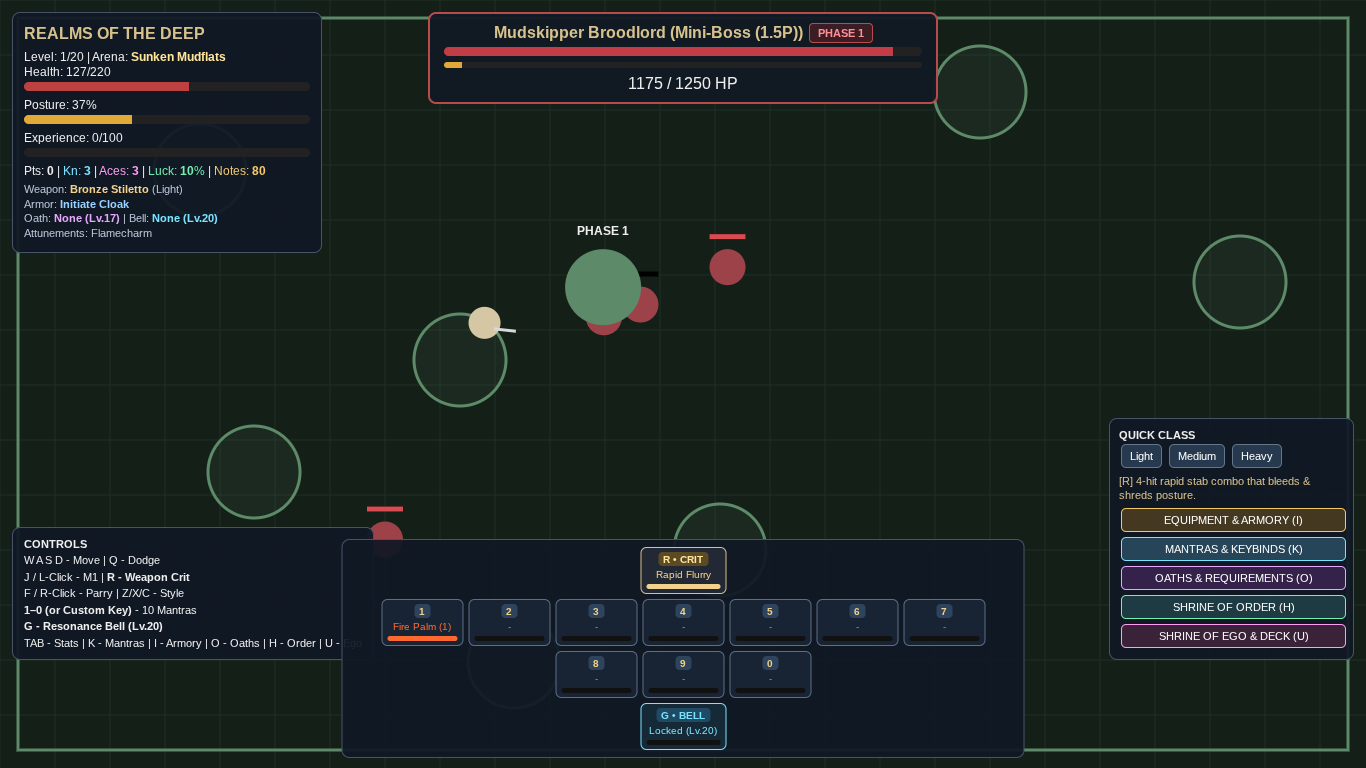
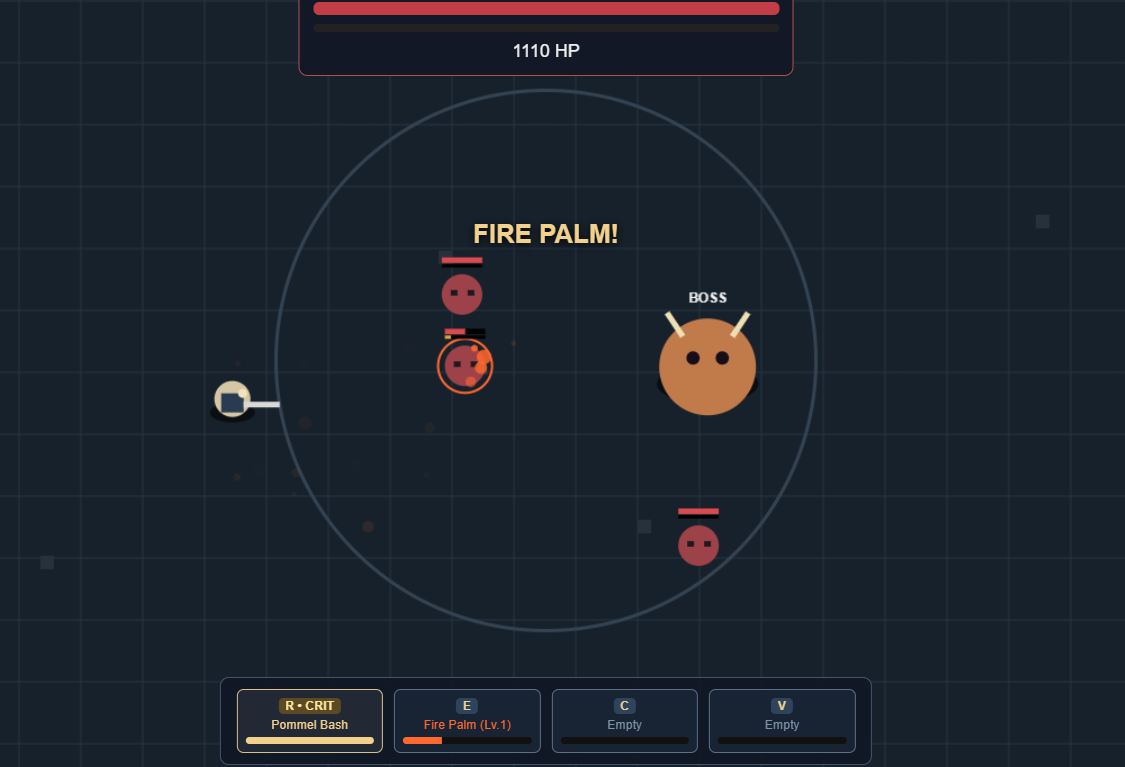
changes

diff --git a/index.html b/index.html
@@ -905,12 +905,12 @@
     <main id="hub" class="hub">
       <header class="header">
         <div class="identity">
-          <img
+          <!-- <img
             class="brand-logo"
             src="screenshots/frontier-logo.png"
             alt="Frontier Schools logo"
             id="schoolLogo"
-          />
+          /> -->
           <div class="school-identity">
             <div class="festival">STEM <em>Fest</em></div>
             <div class="school">Frontier Schools Kansas City</div>
@@ -918,7 +918,7 @@
         </div>
         <div
           class="headline"
-          aria-label="All Games Created by Students Using the Knowledge and Skills Gained at Frontier Schools."
+          aria-label="All Games Created by Our Students Using the Knowledge and Skills Gained at Frontier Schools."
         >
           <div class="headline-primary">All Games Created by Students</div>
           <div class="headline-secondary">
